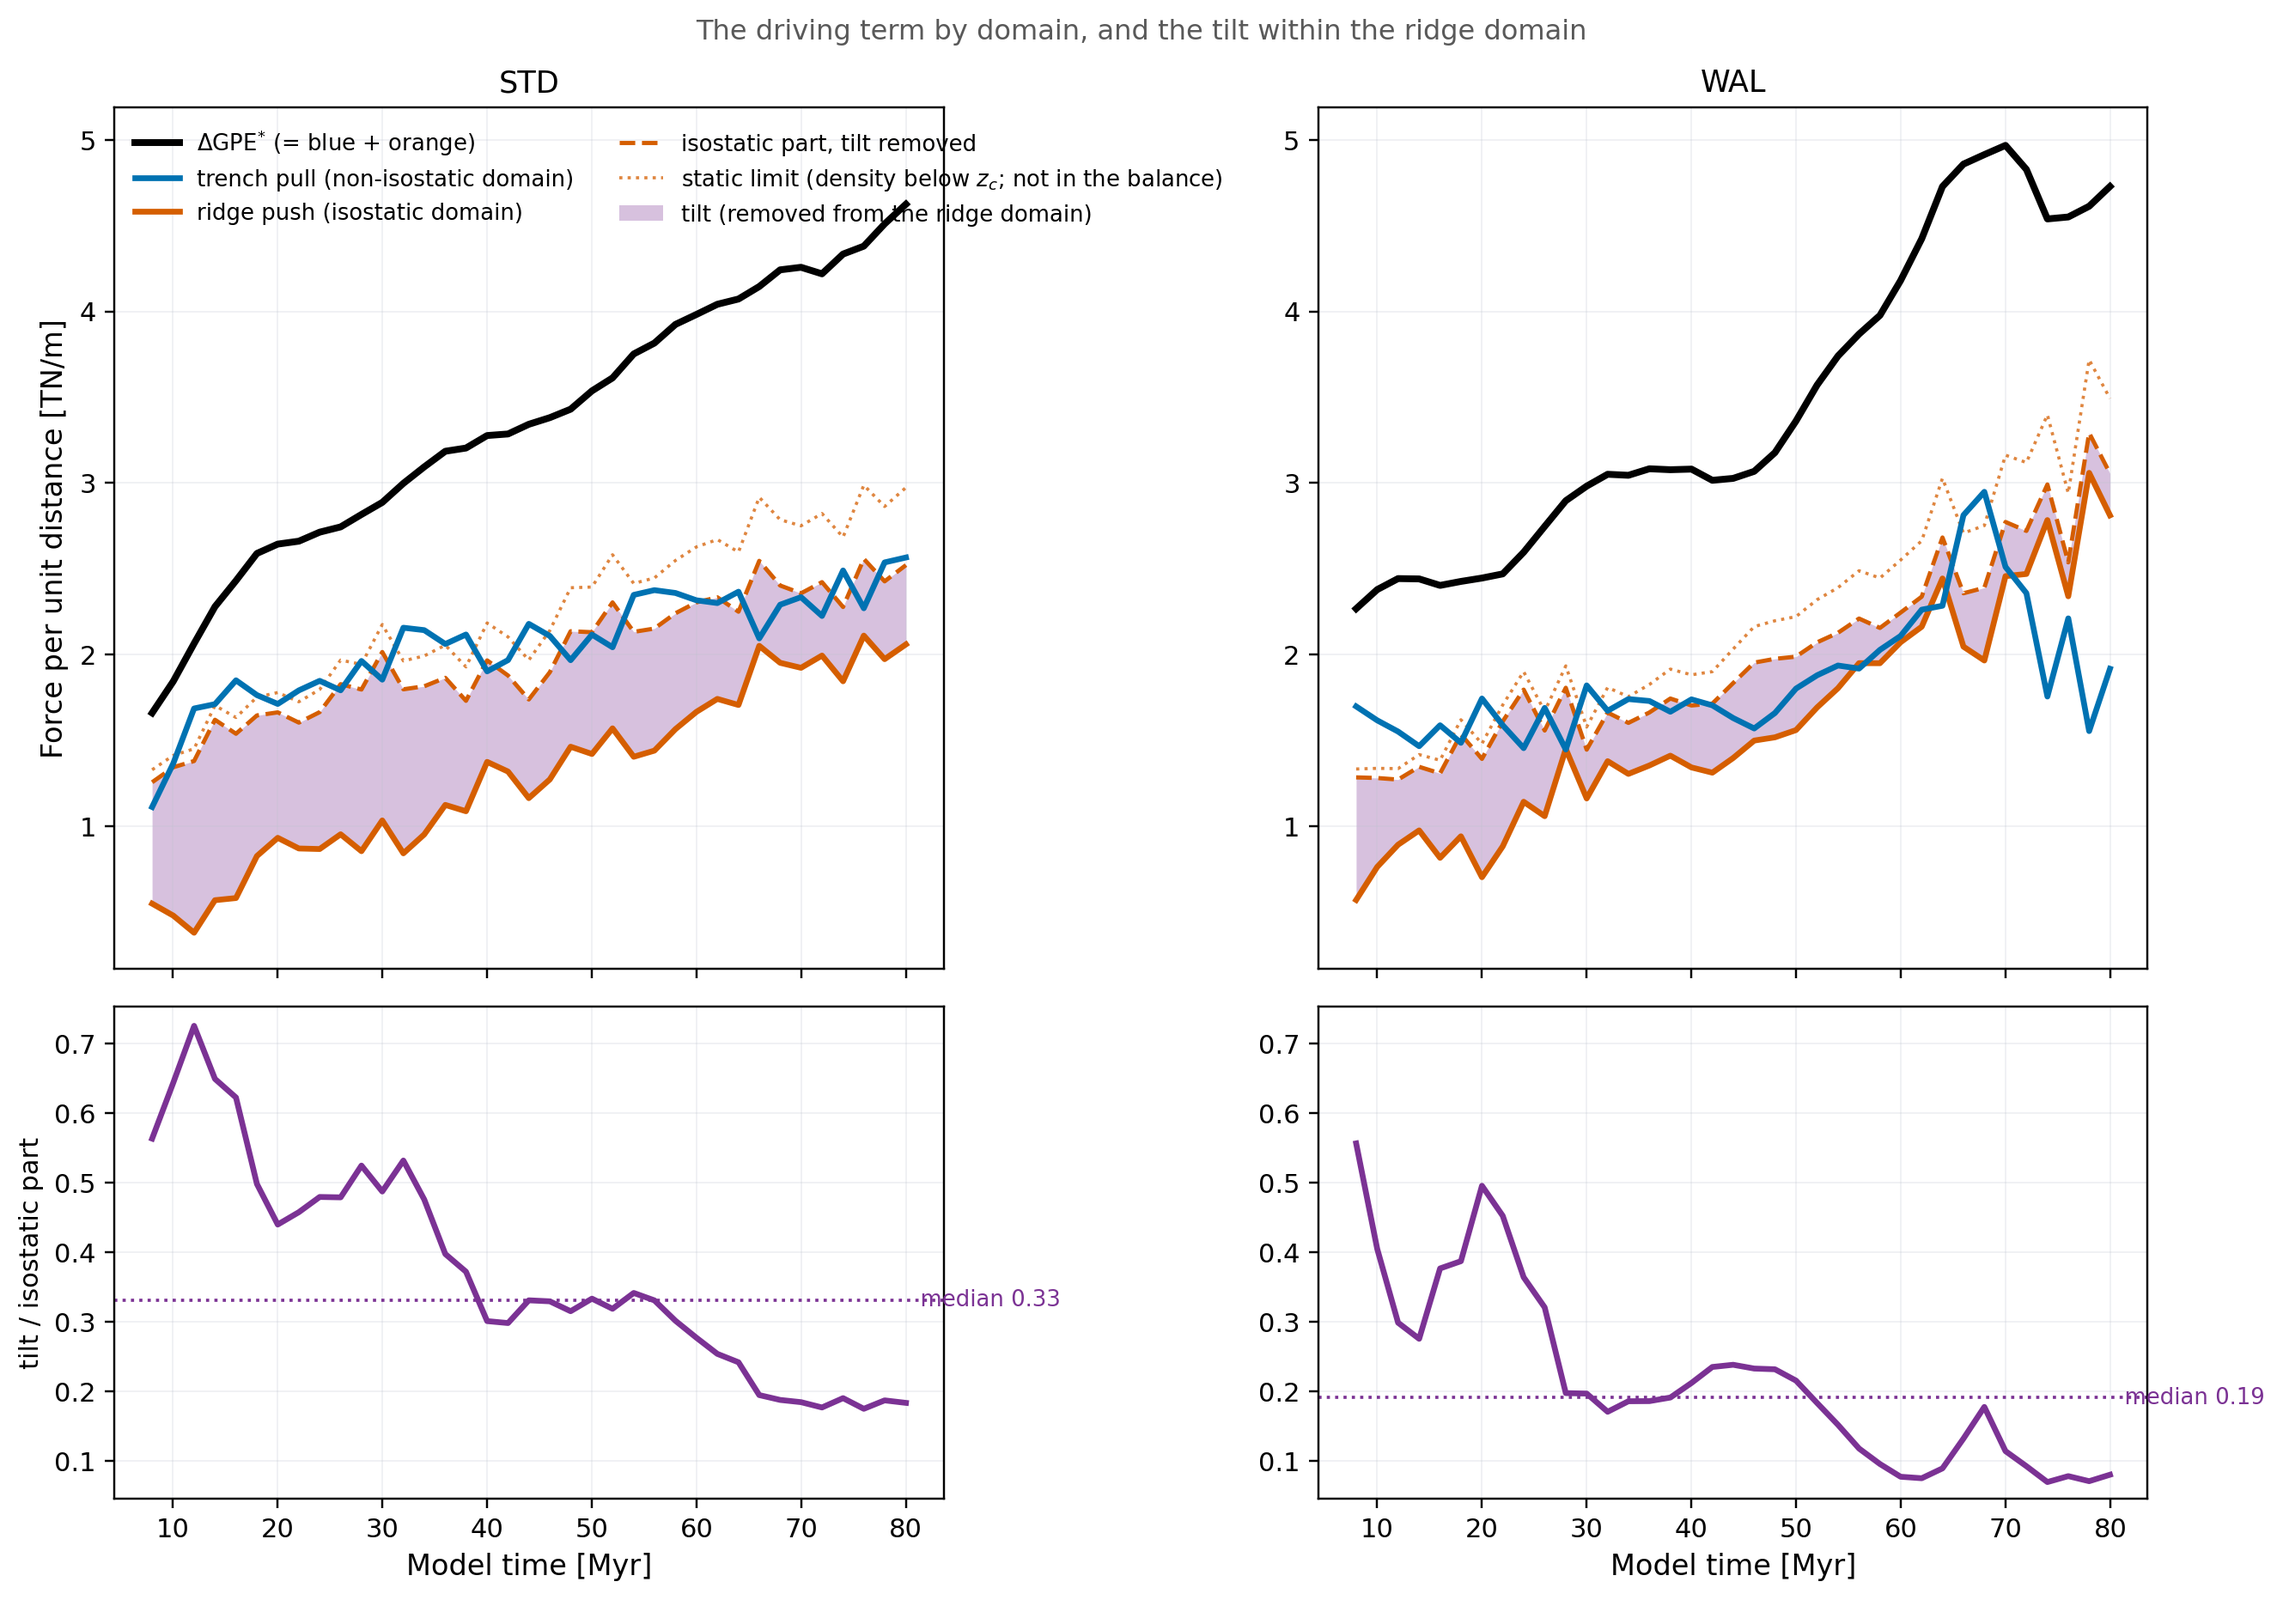
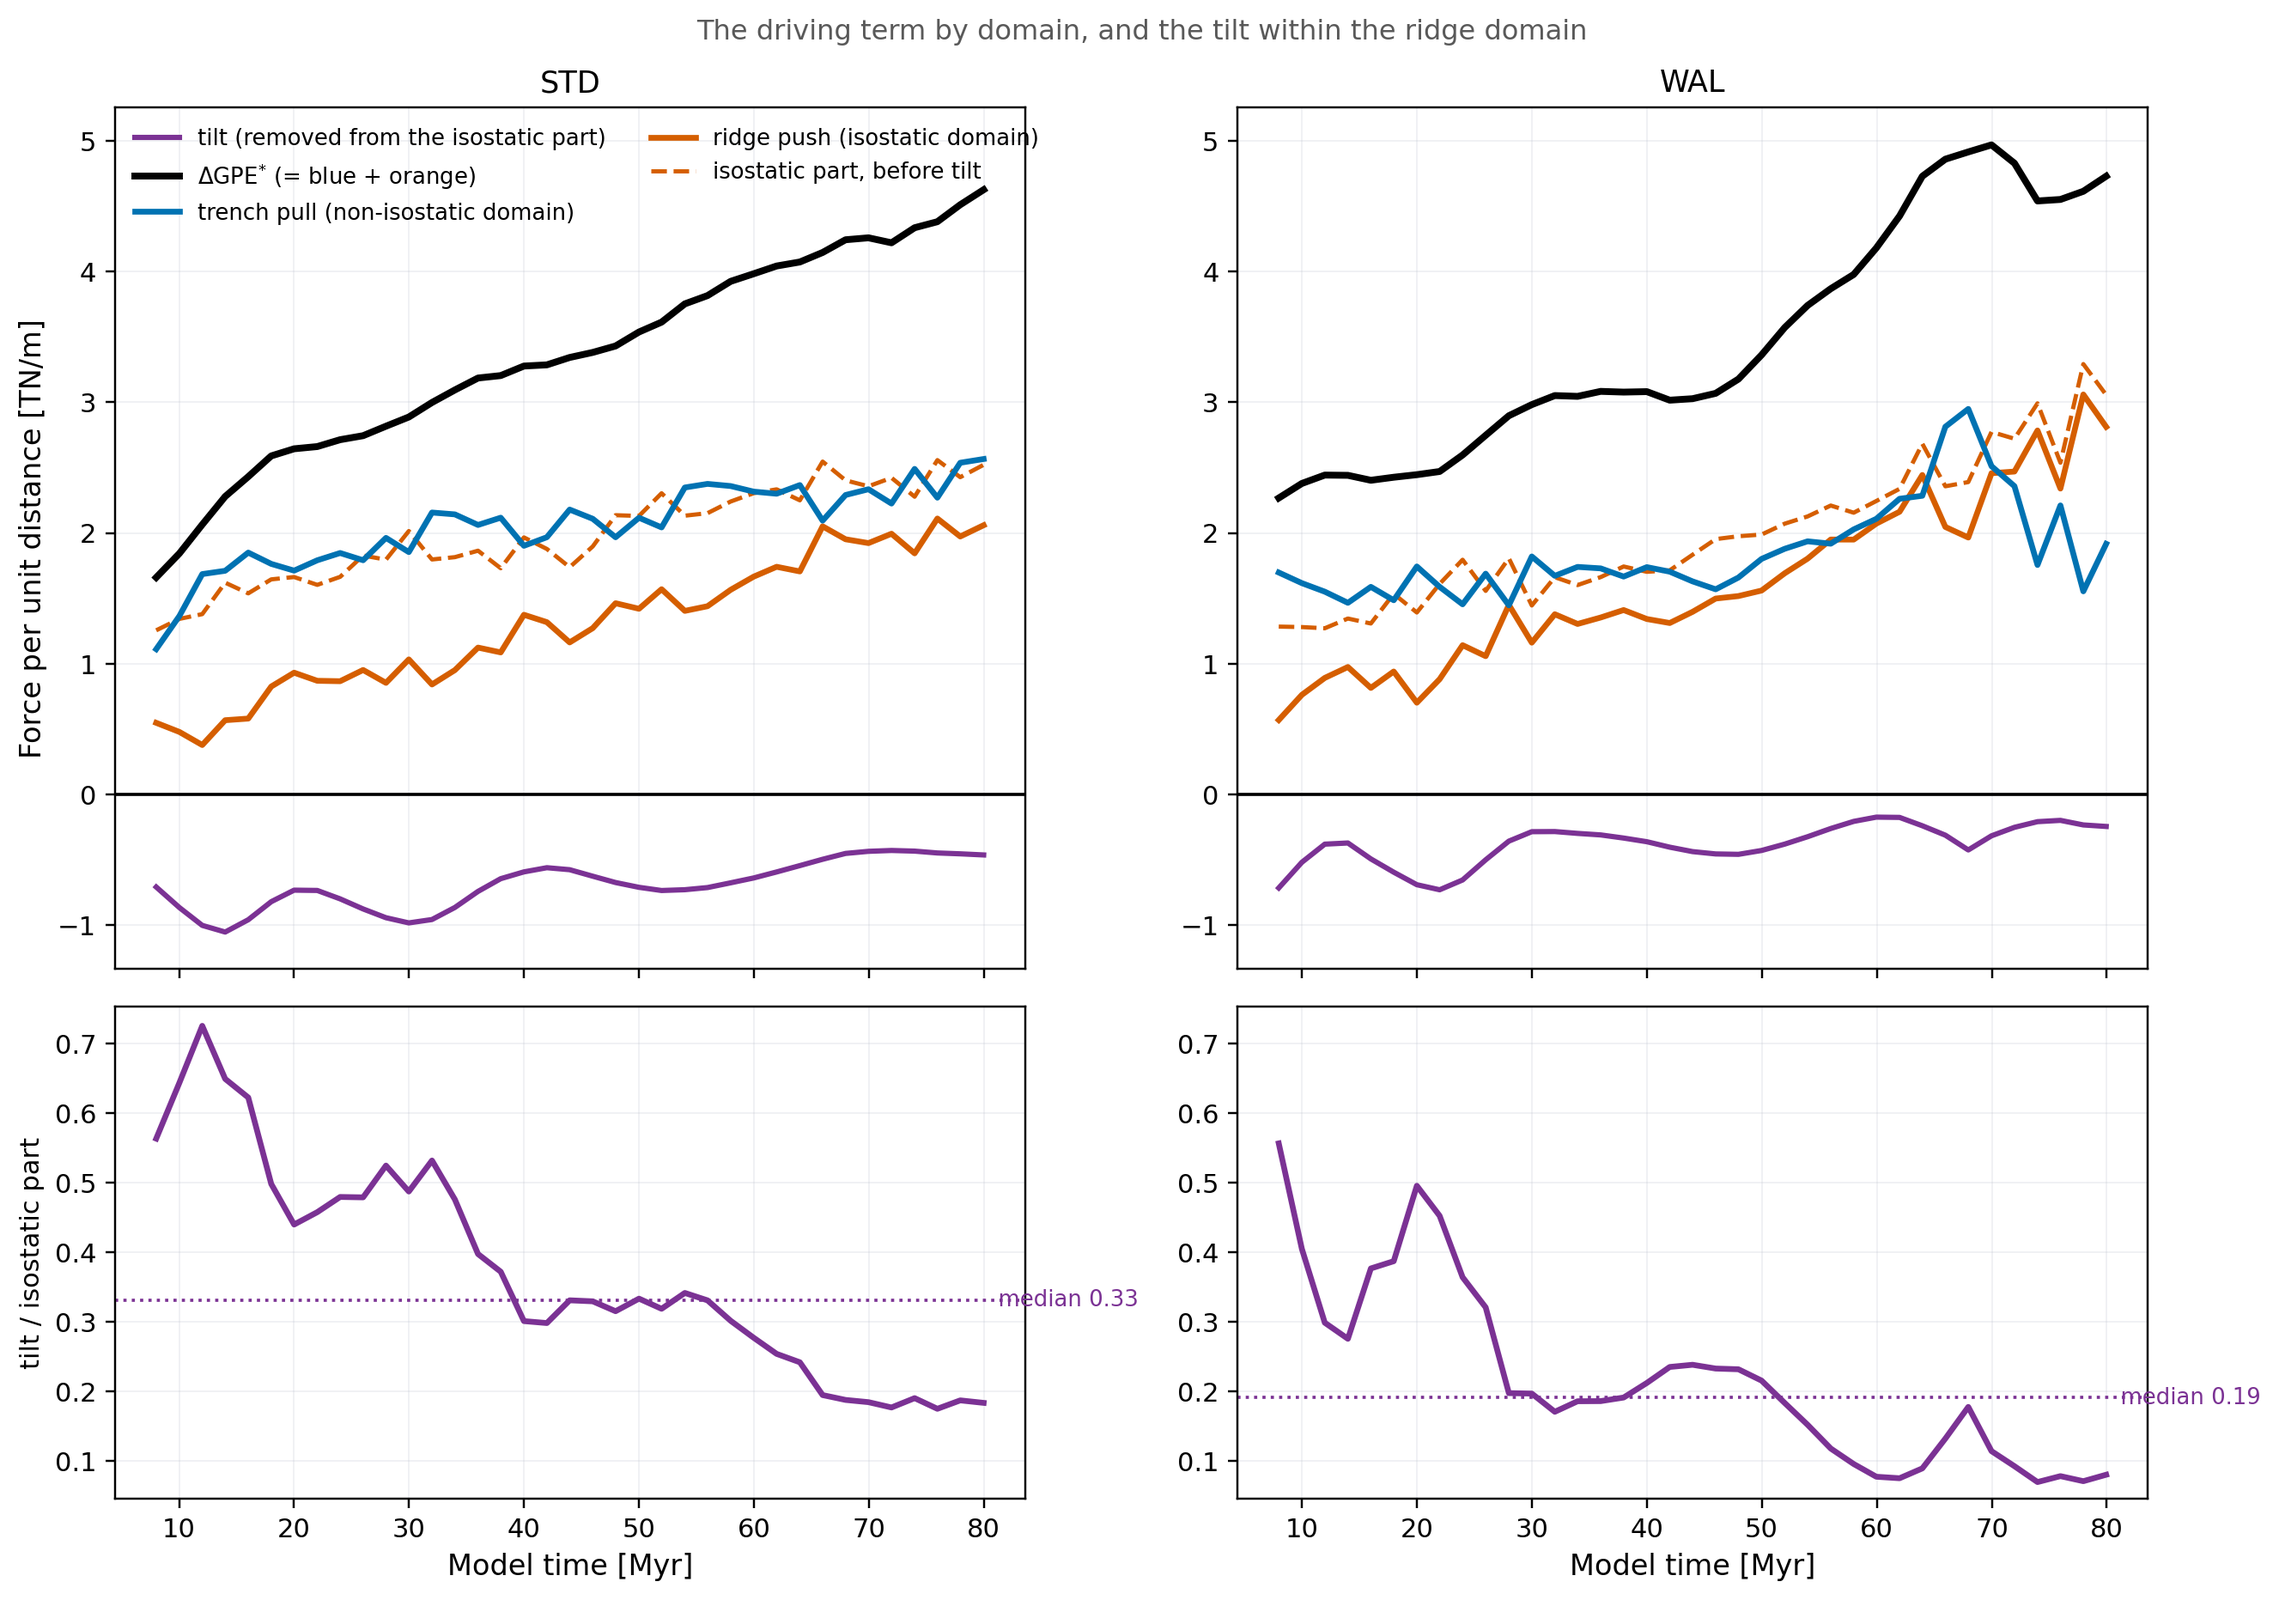
fig_gpe_partition: drop the static limit, tilt as its own signed curve
Dan, 2026-09-24. Three changes.

Static limit removed — reference clutter at this point in the argument;
it remains in the SI figure.

The tilt is now its own purple curve BELOW ZERO rather than a shaded
band. A band left its sign implicit, which was the substantive objection:
the tilt is a negative contribution to the driving force and should be
drawn as one. It also hid the tilt's own temporal behaviour — STD's
deepens to -1.05 TN/m near 12 Myr and recovers to -0.45 by 80, so the
suppression fraction falls for two reasons at once (the isostatic part
grows AND the tilt weakens), which the band version concealed.

One register declared on the figure: every curve is a contribution to the
driving force, positive = driving. The docstring now states plainly that
this differs from fig_budget_time_detrended's +x-contribution register,
that it is a standing problem rather than a choice made here, and that
the root cause is the mirrored frame (W31/W28).

diff --git a/scripts/fig_gpe_partition.py b/scripts/fig_gpe_partition.py
@@ -17,10 +17,18 @@ replace `fig_partition_time` in the SI rather than sit beside it.
 
   1  the decomposition. Black: the plate-wide driving term. Blue: the
      non-isostatic (trench pull) domain. Orange solid: the ridge push as
-     it enters the balance. Orange dashed: the same domain with the tilt
-     removed -- the isostatic part the density structure supplies over
-     the same depth. The purple band between them IS the tilt.
+     it enters the balance. Orange dashed: the same domain BEFORE the
+     tilt. Purple, below zero: the tilt itself.
   2  the suppression fraction, tilt / isostatic part -- the channel dial.
+
+⚠ ONE REGISTER ON THIS FIGURE (Dan, 2026-09-24): every curve is a
+contribution TO THE DRIVING FORCE, positive = driving. The tilt is
+therefore drawn NEGATIVE, below zero, because that is what it does to the
+isostatic part. It gets its own line rather than a shaded band for two
+reasons: a band leaves its sign implicit, and its temporal behaviour
+differs from the curves it would sit between, which a band hides. The
+static limit (density integrated below z_c) has been dropped -- reference
+clutter at this point in the argument.
 
 ⚠ ONE INTEGRATION DEPTH THROUGHOUT (z_c), SO EVERY LEVEL IS EXACTLY
 ADDITIVE. The reader will check that blue + orange sums to black, and it
@@ -34,9 +42,16 @@ ridge side to z*, the sign-change depth, and reports a STATIC ridge push
 read off the deep plateau. Both are sanctioned -- conventions W17 records
 that the two agree within ~2 % -- but partition's quantities are not
 mutually additive with a z_c-based trench pull, and additivity is the
-whole point here. The static limit is drawn as a faint dotted line for
-continuity with the SI figure; the gap between it and the dashed curve is
-the density tail below z_c, which does not enter the balance.
+whole point here. The static limit lives in the SI figure.
+
+⚠ THE REGISTER DIFFERS FROM `fig_budget_time_detrended`, WHICH IS A
+STANDING PROBLEM, NOT A CHOICE MADE HERE. That figure plots each term's
+contribution to the net force in +x, in which driving is NEGATIVE (the
+analysis frame is mirrored, so the plate moves toward -x). This figure
+plots driving as POSITIVE, which is what a decomposition needs and what
+`fig_balance_snapshot` already does. The root cause is the mirrored frame
+(PAPER_PLAN W31); W28 records the same clash against
+`fig_ridge_column_stresses`. Un-mirroring would collapse all of it.
 
 ⚠ NO RESIDUAL PANEL, deliberately. Trench pull and ridge push are both
 referenced to the first isostatic column, which cancels from their sum
@@ -61,13 +76,17 @@ WHAT IT SHOWS.
     from ~0.6-0.7 early to ~0.18 (STD) / ~0.08 (WAL) late as the channel
     evolves. The STD/WAL separation is the weak-layer dial working in the
     direction the mechanism predicts.
+  - Drawing the tilt as its own curve shows that the fraction falls for
+    TWO reasons at once, which the band version concealed: the isostatic
+    part grows, AND the tilt itself weakens. STD's tilt deepens to
+    -1.05 TN/m near 12 Myr and recovers to about -0.45 by 80 Myr.
 
 ⚠ DENOMINATOR. The suppression fraction plotted here is tilt / isostatic
 part, both at z_c, which is the conventions §6b definition and is exactly
 additive with the curves above. `fig_partition_time` (SI) divides by the
-STATIC ridge push instead, which is larger, so its fraction is lower.
-Both are tabulated (`tilt_over_static_median`) so the two can be
-reconciled; do not compare the two numbers without saying which is which.
+STATIC ridge push instead, which is larger, so its fraction is lower --
+0.29 (STD) / 0.17 (WAL) on identical data. Do not compare the two numbers
+without saying which denominator each uses.
 
 ⚠ WAL ridge-referenced quantities after 70 Myr carry the standing
 ridge-pick caveat; and WAL's 62-70 Myr excursion is the loading-and-
@@ -78,12 +97,12 @@ WAL (right). (a, b) The GPE-like force between the trench and ridge
 columns (black) separated into its two domains: the non-isostatic or
 trench pull domain (blue) and the isostatic or ridge push domain (orange
 solid), which sum to it exactly. The orange dashed curve is the ridge
-domain with the plate tilt removed -- the force the cooling density
-structure supplies over the same depth -- so the purple band between the
-two orange curves is the tilt contained within the measured ridge push.
-The faint dotted curve is the static limit obtained by integrating the
-density structure below the plate, shown for reference; it does not enter
-the balance. (c, d) The tilt as a fraction of the isostatic part: the
+domain before the plate tilt -- the force the cooling density structure
+supplies over the same depth. The purple curve is the tilt itself, drawn
+below zero because it is a negative contribution to the driving force:
+the solid orange curve is the dashed one plus it. Every curve on the
+panel is a contribution to the driving force, positive driving.
+(c, d) The tilt as a fraction of the isostatic part: the
 suppression of ridge push by the adverse asthenospheric pressure
 gradient, and the quantity the weak asthenospheric layer changes.
 """
@@ -122,7 +141,6 @@ def main():
         TOT = TP + RP                           # = Delta GPE* over 0..z_c
         TILT = -c['dP'] * (z[zc][-1] - z[zc][0]) / 1e12
         DENS = RP + TILT                        # isostatic part, same depth
-        STATIC = cpc.partition(d, key)['static'] / 1e12
         supp = TILT / DENS
 
         assert np.allclose(I(d[f'{key}_szz_T']) - I(d[f'{key}_szz_R']), TOT,
@@ -130,19 +148,25 @@ def main():
         assert np.allclose(DENS - TILT, RP, atol=1e-9), \
             f'{key}: density part - tilt is not the measured ridge push'
 
+        # ONE REGISTER ON THIS FIGURE: every curve is a contribution TO THE
+        # DRIVING FORCE, positive = driving (Dan, 2026-09-24). The tilt is
+        # therefore drawn as a NEGATIVE contribution, below zero, because
+        # that is what it does — it removes force from the isostatic part.
+        # Its own line rather than a shaded band, because its temporal
+        # behaviour differs from the terms it sits between and a band hides
+        # that. The static limit is dropped: reference clutter at this point.
         a0, a1 = axes[0, col], axes[1, col]
-        a0.fill_between(t, RP, DENS, color=C_TILT, alpha=0.30, lw=0,
-                        label='tilt (removed from the ridge domain)')
-        a0.plot(t, STATIC, ':', color=C_RIDGE, lw=1.2, alpha=0.75,
-                label='static limit (density below $z_c$; not in the balance)')
+        a0.axhline(0, color='k', lw=1.2)
         a0.plot(t, DENS, '--', color=C_RIDGE, lw=1.6,
-                label='isostatic part, tilt removed')
+                label='isostatic part, before tilt')
         a0.plot(t, RP, '-', color=C_RIDGE, lw=2.2,
                 label='ridge push (isostatic domain)')
         a0.plot(t, TP, '-', color=C_TRENCH, lw=2.2,
                 label='trench pull (non-isostatic domain)')
         a0.plot(t, TOT, '-', color=C_TOTAL, lw=2.6,
                 label=r'$\Delta\mathrm{GPE}^{*}$ (= blue + orange)')
+        a0.plot(t, -TILT, '-', color=C_TILT, lw=2.0,
+                label='tilt (removed from the isostatic part)')
         a0.set_title(key, fontsize=11.5)
         a0.grid(alpha=0.25, color=C_RULE, lw=0.6)
 
@@ -161,13 +185,12 @@ def main():
         print(f'{key}: medians  total {np.median(TOT):.2f}  trench pull '
               f'{np.median(TP):.2f}  ridge push {np.median(RP):.2f}  '
               f'isostatic part {np.median(DENS):.2f}  tilt {np.median(TILT):.2f}'
-              f'  static {np.median(STATIC):.2f} TN/m;  suppression median '
+              f' TN/m;  suppression median '
               f'{np.median(supp):.2f} (range {supp.min():.2f}-{supp.max():.2f});'
-              f'  tilt/static median {np.median(TILT / STATIC):.2f};'
               f'  ridge push exceeds trench pull at {100*frac_ridge:.0f} % of steps')
         for nm, y in (('total_gpe_like', TOT), ('trench_pull', TP),
                       ('ridge_push_measured', RP), ('isostatic_part', DENS),
-                      ('tilt', TILT), ('static_limit', STATIC),
+                      ('tilt', TILT),
                       ('suppression_fraction', supp)):
             rows += [(key, f'{nm}_median', f'{np.median(y):.4f}'),
                      (key, f'{nm}_q1', f'{np.percentile(y, 25):.4f}'),
@@ -178,7 +201,7 @@ def main():
                  # tilt/static is the denominator used by fig_partition_time
                  # (SI) and PAPER_PLAN; tilt/isostatic-part is plotted here.
                  # Both are tabulated so the two figures can be reconciled.
-                 (key, 'tilt_over_static_median', f'{np.median(TILT / STATIC):.4f}')]
+                 ]
 
     for row in range(2):
         lo = min(ax.get_ylim()[0] for ax in axes[row, :])
@@ -204,8 +227,6 @@ def main():
                                           'isostatic part - tilt = ridge push; '
                                           'both asserted at render',
                             'tilt': '|Delta P| * z_c on the analysis grid',
-                            'static_limit': 'cpc.partition static (plateau asymptote), '
-                                            'reference only — not additive with the rest',
                             'no_residual_panel': 'deliberate; see DYNAMICS_FINDINGS §5.10'})
     print('written:', tab)
 
